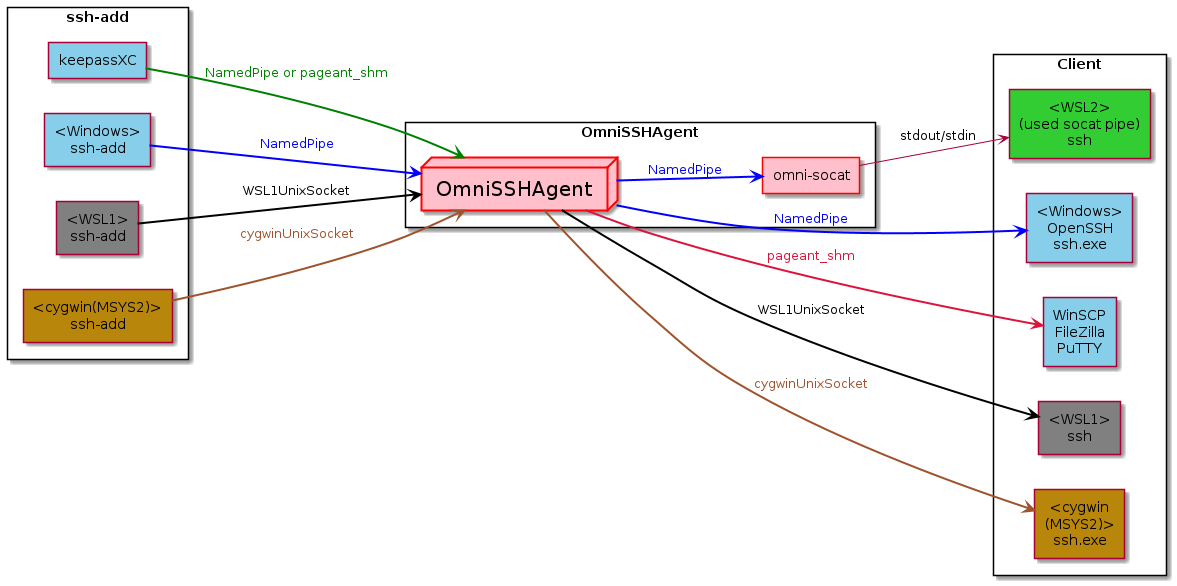
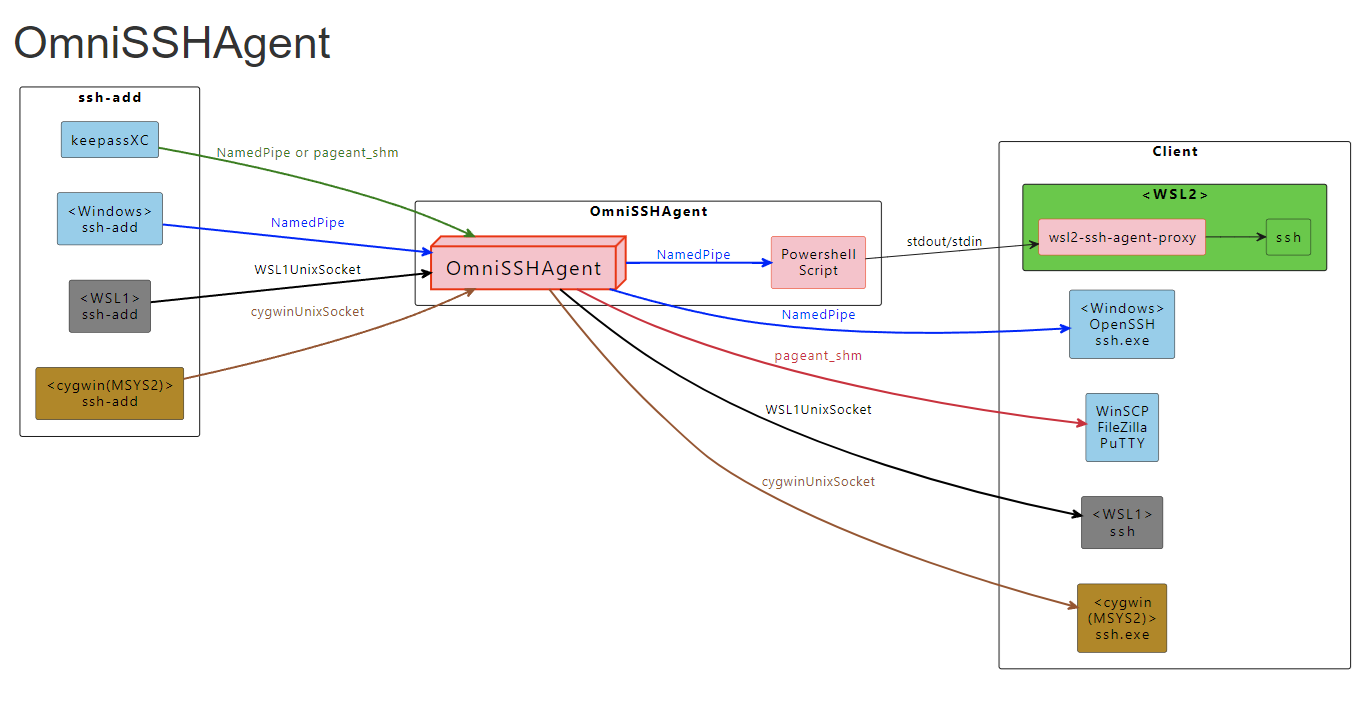
fix

diff --git a/README.md b/README.md
@@ -23,7 +23,7 @@ OmniSSHAgent is a program to simplify what used to be a chaotic situation, as sh
 
 ## The following interfaces are supported
 - pageant.exe(PuTTY) shared memory
-- Unix domain socket for WSL2
+- Unix domain socket for WSL3
 - NamedPipe on Windows
 - Unix domain socket for WSL1
 - Unix domain socket for MSYS2(Cygwin) ( [#1](https://github.com/masahide/OmniSSHAgent/issues/1) )
@@ -53,41 +53,29 @@ OmniSSHAgent does not have an installer, nor registers itself to start upon boot
 
 
 ### Using with WSL2
-#### Setting up socat pipe in Ubuntu(WSL2).
+#### Setting up wsl2-ssh-agent-proxy in Ubuntu or Rocky(WSL2).
 Choose the instructions for your favourite shell below. If your shell isn't listed here you can convert the bash script to your shell syntax and send a PR to add it to the repo.
 
 ##### Bash (and all POSIX-compliant shells)
 1. Download [ubuntu.setup.sh](hack/ubuntu.setup.sh) with the following command:
 ```bash
-mkdir -p $HOME/omni-socat
-curl -sL https://raw.githubusercontent.com/masahide/OmniSSHAgent/main/hack/ubuntu.setup.sh -o $HOME/omni-socat/ubuntu.setup.sh
+mkdir -p $HOME/wsl2-ssh-agent-proxy
+curl -sL https://raw.githubusercontent.com/masahide/OmniSSHAgent/wsl2-ssh-agent-proxy/hack/ubuntu.wsl2-ssh-agent-proxy.sh -o $HOME/wsl2-ssh-agent-proxy/ubuntu.wsl2-ssh-agent-proxy.sh
 ```
 2. Add the following line to `~/.bashrc`, `~/.zshrc`, or whatever file is applicable to your shell:
 ```bash
-source $HOME/omni-socat/ubuntu.setup.sh
+source $HOME/wsl2-ssh-agent-proxy/ubuntu.wsl2-ssh-agent-proxy.sh
 ```
 
 ##### Fish
 1. Download [ubuntu-fish.setup.fish](hack/ubuntu-fish.setup.fish) with the following command:
 ```fish
-mkdir -p $HOME/omni-socat
-curl -sL https://raw.githubusercontent.com/masahide/OmniSSHAgent/main/hack/ubuntu-fish.setup.fish -o $HOME/omni-socat/ubuntu-fish.setup.fish
+mkdir -p $HOME/wsl2-ssh-agent-proxy
+curl -sL https://raw.githubusercontent.com/masahide/OmniSSHAgent/wsl2-ssh-agent-proxy/hack/ubuntu.wsl2-ssh-agent-proxy-fish.sh -o $HOME/wsl2-ssh-agent-proxy/ubuntu.wsl2-ssh-agent-proxy-fish.sh
 ```
 2. Add the following line to `~/.config/fish/config.fish`:
 ```fish
-. $HOME/omni-socat/ubuntu-fish.setup.fish
-```
-
-#### Setting up socat pipe in rocky linux.
-
-1. Download [rocky.setup.sh](hack/rocky.setup.sh) with the following command
-```bash
-mkdir -p $HOME/omni-socat
-curl -sL https://raw.githubusercontent.com/masahide/OmniSSHAgent/main/hack/rocky.setup.sh -o $HOME/omni-socat/rocky.setup.sh
-```
-2. Add the following line to `~/.bashrc`, `~/.zshrc`, or whatever file is applicable to your shell:
-```bash
-source $HOME/omni-socat/rocky.setup.sh
+. $HOME/wsl2-ssh-agent-proxy/ubuntu.wsl2-ssh-agent-proxy-fish.sh
 ```
 
 ### Using with WSL1
@@ -120,12 +108,12 @@ Variable name:  SSH_AUTH_SOCK
 Variable Value: /mnt/c/Users/<UserName>/OmniSSHAgent.sock
 ```
 
-## Using with 1Password proxy mode
+## Using with OpenSSH ssh-agent NamedPipe (1Password etc.) proxy mode
 
-This is a mode using [1Password's ssh-agent function](https://developer.1password.com/docs/ssh/) as a backend as shown in the following figure.
-![1Password-Proxy-mode](https://github.com/masahide/OmniSSHAgent/blob/main/doc/1passwordProxyMode.png?raw=true)
+This is a mode using [OpenSSH ssh-agent NamedPipe](https://learn.microsoft.com/windows-server/administration/openssh/openssh_keymanagement) or [1Password's ssh-agent function](https://developer.1password.com/docs/ssh/agent/) as a backend as shown in the following figure.
+![NamedPipe-Proxy-mode](https://github.com/masahide/OmniSSHAgent/blob/main/doc/NamedPipeProxyMode.png?raw=true)
 
-By setting "Enable proxy mode for 1Password key-agent" in the configuration, OmniSSHAgent becomes a Proxy that works with 1Password's ssh-agent as a backend.
+By setting "Enable proxy mode for 1Password key-agent" in the configuration, OmniSSHAgent becomes a Proxy that works with 1Password or OpenSSH's Namedpipe ssh-agent  as a backend.
 
 When "Enable proxy mode for 1Password key-agent" is enabled, OmniSSHAgent operates as a mere proxy, and therefore, private keys cannot be added.
 
